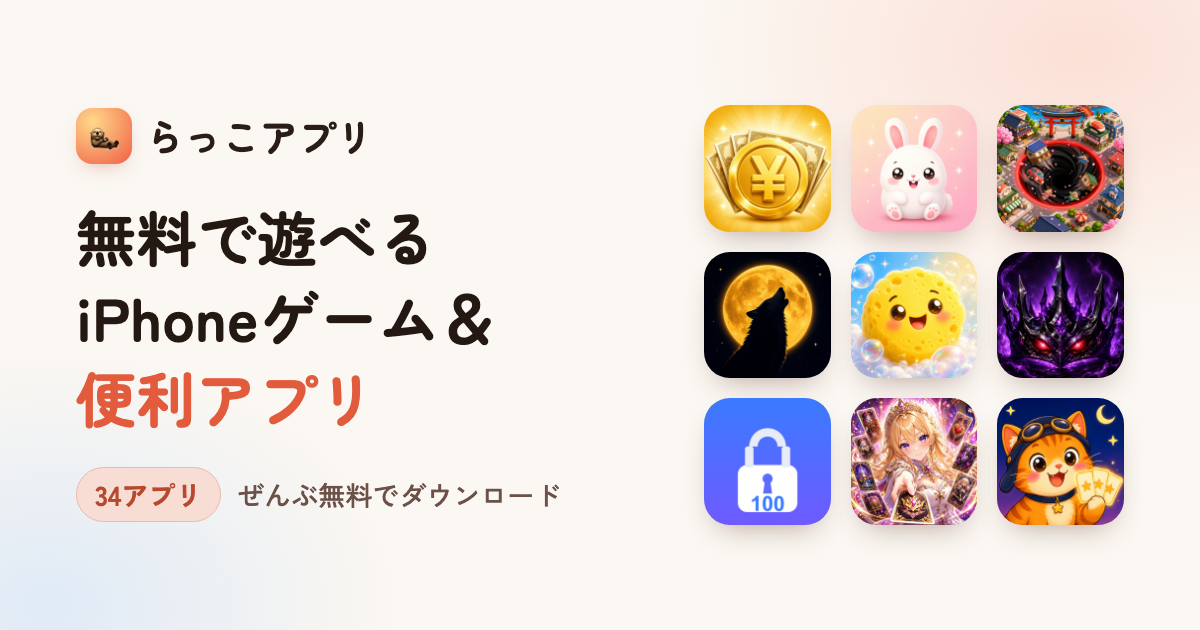
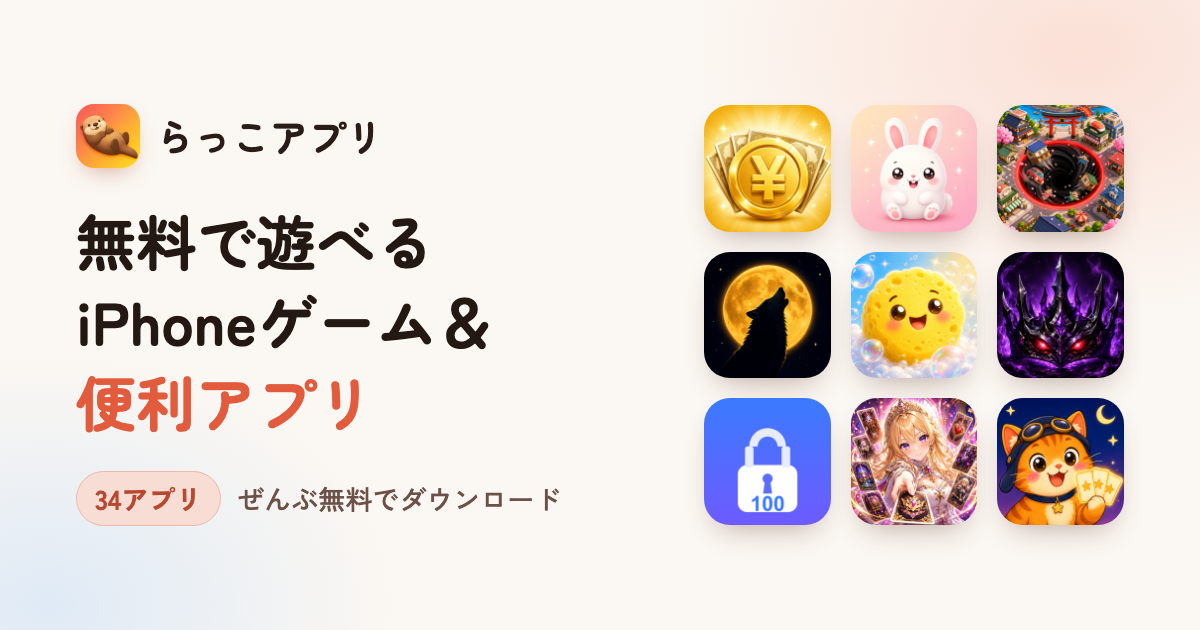
ブランドアイコンをChatGPT生成画像に差し替え（絵文字を全廃）
ロゴ/ファビコン/ヒーローバッジ/空状態/箇条書きに使っていた絵文字を
ChatGPT生成のラッコアイコン画像に置き換え。絵柄は絵文字と同じ
「仰向けでぷかぷか浮かぶ」ポーズを踏襲。

- assets/brand/icon-{1024,512,192,180,160,96,48,32}.png を追加
- favicon.svg(絵文字)を削除し favicon.png へ
- apple-touch-icon / manifest / OGPカバーも新アイコンで再生成
- 生成画像の黒い角は内側のグラデーションで補間しフチなし正方形化

Changed region(s): [[0.0617, 0.3317, 0.4008, 0.6937], [0.0617, 0.7238, 0.4625, 0.8444], [0.0617, 0.1508, 0.3083, 0.2714]]

diff --git a/index.html b/index.html
@@ -36,15 +36,16 @@
 <meta name="twitter:description" content="個人開発の無料iPhoneアプリまとめ。App Storeで配信中のアプリをカテゴリと検索で探せます。">
 <meta name="twitter:image" content="https://rakkoapps.com/assets/og/cover.png">
 
-<link rel="icon" href="/favicon.svg" type="image/svg+xml">
+<link rel="icon" href="/favicon.png" type="image/png">
+<link rel="icon" sizes="192x192" href="/assets/brand/icon-192.png" type="image/png">
 <link rel="apple-touch-icon" href="/assets/og/apple-touch-icon.png">
 <link rel="manifest" href="/site.webmanifest">
 
 <link rel="preconnect" href="https://fonts.googleapis.com">
 <link rel="preconnect" href="https://fonts.gstatic.com" crossorigin>
 <link href="https://fonts.googleapis.com/css2?family=Zen+Kaku+Gothic+New:wght@400;500;700&family=Zen+Maru+Gothic:wght@500;700&display=swap" rel="stylesheet">
-<link rel="stylesheet" href="/css/tokens.css?v=mry5mwqi">
-<link rel="stylesheet" href="/css/styles.css?v=mry5mwqi">
+<link rel="stylesheet" href="/css/tokens.css?v=mry668hd">
+<link rel="stylesheet" href="/css/styles.css?v=mry668hd">
 
 <!-- JSON-LD: 構造化データ（検索エンジン向け。実データ差込） -->
 <script type="application/ld+json">
@@ -734,7 +735,7 @@
 <header class="nav">
   <div class="wrap nav__inner">
     <a class="wordmark" href="#top" aria-label="らっこアプリ ホーム">
-      <span class="wordmark__mark" aria-hidden="true"><span>🦦</span></span>
+      <img class="wordmark__mark" src="/assets/brand/icon-96.png" width="96" height="96" alt="" aria-hidden="true">
       らっこアプリ
     </a>
     <nav class="nav__links" aria-label="メイン">
@@ -751,7 +752,7 @@
   <!-- ============ Hero ============ -->
   <section class="hero">
     <div class="wrap">
-      <p class="hero__badge">🦦 個人開発のiPhoneアプリを <b>&nbsp;34本&nbsp;</b> 公開中</p>
+      <p class="hero__badge"><img class="badge__icon" src="/assets/brand/icon-48.png" width="48" height="48" alt="" aria-hidden="true">個人開発のiPhoneアプリを <b>&nbsp;34本&nbsp;</b> 公開中</p>
       <h1 class="hero__title"><span class="ln ln--sp">無料で遊べる</span><span class="ln">iPhoneゲーム＆</span><span class="ln"><span class="accent">便利アプリ</span>。</span></h1>
       <p class="hero__lede">らっこアプリは、個人でつくったiPhone向けのゲームとツールをまとめた一覧サイト。気になったらそのままApp Storeへ。ぜんぶ無料でダウンロードできます。</p>
       <div class="hero__actions">
@@ -1293,7 +1294,7 @@
       </div>
 
       <div class="empty" id="empty">
-        <div class="empty__emoji" aria-hidden="true">🦦</div>
+        <img class="empty__icon" src="/assets/brand/icon-160.png" width="160" height="160" alt="" aria-hidden="true">
         <p>該当するアプリが見つかりませんでした。<br>キーワードやカテゴリを変えてみてください。</p>
       </div>
     </div>
@@ -1338,6 +1339,6 @@
   </div>
 </footer>
 
-<script src="/js/app.js?v=mry5mwqi" defer></script>
+<script src="/js/app.js?v=mry668hd" defer></script>
 </body>
 </html>

diff --git a/css/styles.css b/css/styles.css
@@ -99,10 +99,8 @@ strong { font-weight: 700; color: var(--color-ink); }
 .wordmark { display: inline-flex; align-items: center; gap: 0.5em; font-family: var(--font-display); font-weight: 700; font-size: var(--text-md); color: var(--color-ink); letter-spacing: 0.01em; }
 .wordmark__mark {
   width: 2rem; height: 2rem; border-radius: 10px; flex: none;
-  background: radial-gradient(120% 120% at 30% 25%, var(--color-pear), var(--color-accent) 78%);
-  display: grid; place-items: center; box-shadow: var(--shadow-card);
+  object-fit: cover; box-shadow: var(--shadow-card);
 }
-.wordmark__mark span { font-size: 1.1rem; line-height: 1; filter: saturate(1.1); }
 .nav__links { display: flex; align-items: center; gap: clamp(0.5rem, 1.5vw, 1.5rem); margin-left: auto; }
 .nav__link { font-size: var(--text-sm); font-weight: 500; color: var(--color-muted); padding: 0.4rem 0.2rem; transition: color var(--dur) var(--ease-out); white-space: nowrap; }
 .nav__link:hover { color: var(--color-ink); }
@@ -127,6 +125,7 @@ strong { font-weight: 700; color: var(--color-ink); }
   padding: 0.35em 0.85em; border-radius: var(--radius-pill); margin-bottom: var(--space-md);
 }
 .hero__badge b { font-weight: 700; }
+.badge__icon { width: 1.25rem; height: 1.25rem; border-radius: 5px; flex: none; object-fit: cover; }
 .hero h1 { font-size: var(--text-display); max-width: 14em; letter-spacing: 0.005em; line-height: 1.32; }
 .hero h1 .accent { color: var(--color-accent); }
 /* 見出しは「意味のまとまり」単位で折り返す。語中では折らない（keep-all）が、
@@ -204,7 +203,7 @@ strong { font-weight: 700; color: var(--color-ink); }
 /* Empty state for search */
 .empty { display: none; padding: var(--space-2xl) var(--space-md); text-align: center; color: var(--color-muted); }
 .empty.is-shown { display: block; }
-.empty__emoji { font-size: 2.5rem; }
+.empty__icon { width: 76px; height: 76px; border-radius: 20px; object-fit: cover; margin: 0 auto var(--space-sm); box-shadow: var(--shadow-card); }
 
 .result-count { font-size: var(--text-sm); color: var(--color-muted); margin-bottom: var(--space-md); }
 .result-count b { color: var(--color-ink); font-variant-numeric: tabular-nums; }
@@ -219,7 +218,10 @@ strong { font-weight: 700; color: var(--color-ink); }
 .about__text { margin-top: var(--space-sm); color: var(--color-body); max-width: 48ch; }
 .about__list { margin-top: var(--space-md); display: grid; gap: 0.5rem; }
 .about__list li { display: flex; gap: 0.6em; align-items: flex-start; font-size: var(--text-sm); color: var(--color-body); }
-.about__list li::before { content: "🦦"; flex: none; }
+.about__list li::before {
+  content: ""; flex: none; width: 1.15rem; height: 1.15rem; margin-top: 0.15em;
+  border-radius: 5px; background: url("/assets/brand/icon-48.png") center/cover no-repeat;
+}
 .about__aside { background: var(--color-paper-2); border-radius: var(--radius-lg); padding: var(--space-lg); }
 .about__aside h3 { font-size: var(--text-md); margin-bottom: var(--space-xs); }
 .about__aside a { color: var(--color-accent-ink); font-weight: 700; }

diff --git a/index.template.html b/index.template.html
@@ -36,7 +36,8 @@
 <meta name="twitter:description" content="個人開発の無料iPhoneアプリまとめ。App Storeで配信中のアプリをカテゴリと検索で探せます。">
 <meta name="twitter:image" content="https://rakkoapps.com/assets/og/cover.png">
 
-<link rel="icon" href="/favicon.svg" type="image/svg+xml">
+<link rel="icon" href="/favicon.png" type="image/png">
+<link rel="icon" sizes="192x192" href="/assets/brand/icon-192.png" type="image/png">
 <link rel="apple-touch-icon" href="/assets/og/apple-touch-icon.png">
 <link rel="manifest" href="/site.webmanifest">
 
@@ -55,7 +56,7 @@
 <header class="nav">
   <div class="wrap nav__inner">
     <a class="wordmark" href="#top" aria-label="らっこアプリ ホーム">
-      <span class="wordmark__mark" aria-hidden="true"><span>🦦</span></span>
+      <img class="wordmark__mark" src="/assets/brand/icon-96.png" width="96" height="96" alt="" aria-hidden="true">
       らっこアプリ
     </a>
     <nav class="nav__links" aria-label="メイン">
@@ -72,7 +73,7 @@
   <!-- ============ Hero ============ -->
   <section class="hero">
     <div class="wrap">
-      <p class="hero__badge">🦦 個人開発のiPhoneアプリを <b>&nbsp;{{APP_COUNT}}本&nbsp;</b> 公開中</p>
+      <p class="hero__badge"><img class="badge__icon" src="/assets/brand/icon-48.png" width="48" height="48" alt="" aria-hidden="true">個人開発のiPhoneアプリを <b>&nbsp;{{APP_COUNT}}本&nbsp;</b> 公開中</p>
       <h1 class="hero__title"><span class="ln ln--sp">無料で遊べる</span><span class="ln">iPhoneゲーム＆</span><span class="ln"><span class="accent">便利アプリ</span>。</span></h1>
       <p class="hero__lede">らっこアプリは、個人でつくったiPhone向けのゲームとツールをまとめた一覧サイト。気になったらそのままApp Storeへ。ぜんぶ無料でダウンロードできます。</p>
       <div class="hero__actions">
@@ -129,7 +130,7 @@
       </div>
 
       <div class="empty" id="empty">
-        <div class="empty__emoji" aria-hidden="true">🦦</div>
+        <img class="empty__icon" src="/assets/brand/icon-160.png" width="160" height="160" alt="" aria-hidden="true">
         <p>該当するアプリが見つかりませんでした。<br>キーワードやカテゴリを変えてみてください。</p>
       </div>
     </div>

diff --git a/apps/koyaku-counter/index.html b/apps/koyaku-counter/index.html
@@ -19,13 +19,13 @@
 <meta name="twitter:title" content="ShareHistory 収支共有&amp;子役カウント｜らっこアプリ">
 <meta name="twitter:description" content="パチスロ収支を仲間と共有＆子役カウント。">
 <meta name="twitter:image" content="https://rakkoapps.com/assets/icons/koyaku-counter.png">
-<link rel="icon" href="/favicon.svg" type="image/svg+xml">
+<link rel="icon" href="/favicon.png" type="image/png">
 <link rel="apple-touch-icon" href="/assets/og/apple-touch-icon.png">
 <link rel="preconnect" href="https://fonts.googleapis.com">
 <link rel="preconnect" href="https://fonts.gstatic.com" crossorigin>
 <link href="https://fonts.googleapis.com/css2?family=Zen+Kaku+Gothic+New:wght@400;500;700&family=Zen+Maru+Gothic:wght@500;700&display=swap" rel="stylesheet">
-<link rel="stylesheet" href="/css/tokens.css?v=mry5mwqi">
-<link rel="stylesheet" href="/css/styles.css?v=mry5mwqi">
+<link rel="stylesheet" href="/css/tokens.css?v=mry668hd">
+<link rel="stylesheet" href="/css/styles.css?v=mry668hd">
 <script type="application/ld+json">
 {
   "@context": "https://schema.org",
@@ -83,7 +83,7 @@
 <header class="nav">
   <div class="wrap nav__inner">
     <a class="wordmark" href="/" aria-label="らっこアプリ ホーム">
-      <span class="wordmark__mark" aria-hidden="true"><span>🦦</span></span>
+      <img class="wordmark__mark" src="/assets/brand/icon-96.png" width="96" height="96" alt="" aria-hidden="true">
       らっこアプリ
     </a>
     <nav class="nav__links" aria-label="メイン">

diff --git a/apps/poker-shot-clock/index.html b/apps/poker-shot-clock/index.html
@@ -19,13 +19,13 @@
 <meta name="twitter:title" content="ポーカーショットクロック｜らっこアプリ">
 <meta name="twitter:description" content="ライブポーカーの持ち時間を管理するタイマー。">
 <meta name="twitter:image" content="https://rakkoapps.com/assets/icons/poker-shot-clock.png">
-<link rel="icon" href="/favicon.svg" type="image/svg+xml">
+<link rel="icon" href="/favicon.png" type="image/png">
 <link rel="apple-touch-icon" href="/assets/og/apple-touch-icon.png">
 <link rel="preconnect" href="https://fonts.googleapis.com">
 <link rel="preconnect" href="https://fonts.gstatic.com" crossorigin>
 <link href="https://fonts.googleapis.com/css2?family=Zen+Kaku+Gothic+New:wght@400;500;700&family=Zen+Maru+Gothic:wght@500;700&display=swap" rel="stylesheet">
-<link rel="stylesheet" href="/css/tokens.css?v=mry5mwqi">
-<link rel="stylesheet" href="/css/styles.css?v=mry5mwqi">
+<link rel="stylesheet" href="/css/tokens.css?v=mry668hd">
+<link rel="stylesheet" href="/css/styles.css?v=mry668hd">
 <script type="application/ld+json">
 {
   "@context": "https://schema.org",
@@ -83,7 +83,7 @@
 <header class="nav">
   <div class="wrap nav__inner">
     <a class="wordmark" href="/" aria-label="らっこアプリ ホーム">
-      <span class="wordmark__mark" aria-hidden="true"><span>🦦</span></span>
+      <img class="wordmark__mark" src="/assets/brand/icon-96.png" width="96" height="96" alt="" aria-hidden="true">
       らっこアプリ
     </a>
     <nav class="nav__links" aria-label="メイン">

diff --git a/apps/deck-hime/index.html b/apps/deck-hime/index.html
@@ -19,13 +19,13 @@
 <meta name="twitter:title" content="デッキ姫 〜王国カード戦記〜｜らっこアプリ">
 <meta name="twitter:description" content="10枚から最強デッキを育てるデッキ構築カード。">
 <meta name="twitter:image" content="https://rakkoapps.com/assets/icons/deck-hime.png">
-<link rel="icon" href="/favicon.svg" type="image/svg+xml">
+<link rel="icon" href="/favicon.png" type="image/png">
 <link rel="apple-touch-icon" href="/assets/og/apple-touch-icon.png">
 <link rel="preconnect" href="https://fonts.googleapis.com">
 <link rel="preconnect" href="https://fonts.gstatic.com" crossorigin>
 <link href="https://fonts.googleapis.com/css2?family=Zen+Kaku+Gothic+New:wght@400;500;700&family=Zen+Maru+Gothic:wght@500;700&display=swap" rel="stylesheet">
-<link rel="stylesheet" href="/css/tokens.css?v=mry5mwqi">
-<link rel="stylesheet" href="/css/styles.css?v=mry5mwqi">
+<link rel="stylesheet" href="/css/tokens.css?v=mry668hd">
+<link rel="stylesheet" href="/css/styles.css?v=mry668hd">
 <script type="application/ld+json">
 {
   "@context": "https://schema.org",
@@ -83,7 +83,7 @@
 <header class="nav">
   <div class="wrap nav__inner">
     <a class="wordmark" href="/" aria-label="らっこアプリ ホーム">
-      <span class="wordmark__mark" aria-hidden="true"><span>🦦</span></span>
+      <img class="wordmark__mark" src="/assets/brand/icon-96.png" width="96" height="96" alt="" aria-hidden="true">
       らっこアプリ
     </a>
     <nav class="nav__links" aria-label="メイン">

diff --git a/apps/wordwolf/index.html b/apps/wordwolf/index.html
@@ -19,13 +19,13 @@
 <meta name="twitter:title" content="ワードウルフ - 嘘つきは誰だ？｜らっこアプリ">
 <meta name="twitter:description" content="スマホ1台で盛り上がる正体隠しトークゲーム。">
 <meta name="twitter:image" content="https://rakkoapps.com/assets/icons/wordwolf.png">
-<link rel="icon" href="/favicon.svg" type="image/svg+xml">
+<link rel="icon" href="/favicon.png" type="image/png">
 <link rel="apple-touch-icon" href="/assets/og/apple-touch-icon.png">
 <link rel="preconnect" href="https://fonts.googleapis.com">
 <link rel="preconnect" href="https://fonts.gstatic.com" crossorigin>
 <link href="https://fonts.googleapis.com/css2?family=Zen+Kaku+Gothic+New:wght@400;500;700&family=Zen+Maru+Gothic:wght@500;700&display=swap" rel="stylesheet">
-<link rel="stylesheet" href="/css/tokens.css?v=mry5mwqi">
-<link rel="stylesheet" href="/css/styles.css?v=mry5mwqi">
+<link rel="stylesheet" href="/css/tokens.css?v=mry668hd">
+<link rel="stylesheet" href="/css/styles.css?v=mry668hd">
 <script type="application/ld+json">
 {
   "@context": "https://schema.org",
@@ -83,7 +83,7 @@
 <header class="nav">
   <div class="wrap nav__inner">
     <a class="wordmark" href="/" aria-label="らっこアプリ ホーム">
-      <span class="wordmark__mark" aria-hidden="true"><span>🦦</span></span>
+      <img class="wordmark__mark" src="/assets/brand/icon-96.png" width="96" height="96" alt="" aria-hidden="true">
       らっこアプリ
     </a>
     <nav class="nav__links" aria-label="メイン">

diff --git a/apps/super-tap-battle/index.html b/apps/super-tap-battle/index.html
@@ -19,13 +19,13 @@
 <meta name="twitter:title" content="スーパータップ対戦｜らっこアプリ">
 <meta name="twitter:description" content="現れるボールを割るだけ。超シンプル早押し対戦。">
 <meta name="twitter:image" content="https://rakkoapps.com/assets/icons/super-tap-battle.png">
-<link rel="icon" href="/favicon.svg" type="image/svg+xml">
+<link rel="icon" href="/favicon.png" type="image/png">
 <link rel="apple-touch-icon" href="/assets/og/apple-touch-icon.png">
 <link rel="preconnect" href="https://fonts.googleapis.com">
 <link rel="preconnect" href="https://fonts.gstatic.com" crossorigin>
 <link href="https://fonts.googleapis.com/css2?family=Zen+Kaku+Gothic+New:wght@400;500;700&family=Zen+Maru+Gothic:wght@500;700&display=swap" rel="stylesheet">
-<link rel="stylesheet" href="/css/tokens.css?v=mry5mwqi">
-<link rel="stylesheet" href="/css/styles.css?v=mry5mwqi">
+<link rel="stylesheet" href="/css/tokens.css?v=mry668hd">
+<link rel="stylesheet" href="/css/styles.css?v=mry668hd">
 <script type="application/ld+json">
 {
   "@context": "https://schema.org",
@@ -83,7 +83,7 @@
 <header class="nav">
   <div class="wrap nav__inner">
     <a class="wordmark" href="/" aria-label="らっこアプリ ホーム">
-      <span class="wordmark__mark" aria-hidden="true"><span>🦦</span></span>
+      <img class="wordmark__mark" src="/assets/brand/icon-96.png" width="96" height="96" alt="" aria-hidden="true">
       らっこアプリ
     </a>
     <nav class="nav__links" aria-label="メイン">

diff --git a/apps/auto-factory/index.html b/apps/auto-factory/index.html
@@ -19,13 +19,13 @@
 <meta name="twitter:title" content="オートファクトリー｜らっこアプリ">
 <meta name="twitter:description" content="採掘から自動化する本格工場づくり（Factorio系）。">
 <meta name="twitter:image" content="https://rakkoapps.com/assets/icons/auto-factory.png">
-<link rel="icon" href="/favicon.svg" type="image/svg+xml">
+<link rel="icon" href="/favicon.png" type="image/png">
 <link rel="apple-touch-icon" href="/assets/og/apple-touch-icon.png">
 <link rel="preconnect" href="https://fonts.googleapis.com">
 <link rel="preconnect" href="https://fonts.gstatic.com" crossorigin>
 <link href="https://fonts.googleapis.com/css2?family=Zen+Kaku+Gothic+New:wght@400;500;700&family=Zen+Maru+Gothic:wght@500;700&display=swap" rel="stylesheet">
-<link rel="stylesheet" href="/css/tokens.css?v=mry5mwqi">
-<link rel="stylesheet" href="/css/styles.css?v=mry5mwqi">
+<link rel="stylesheet" href="/css/tokens.css?v=mry668hd">
+<link rel="stylesheet" href="/css/styles.css?v=mry668hd">
 <script type="application/ld+json">
 {
   "@context": "https://schema.org",
@@ -83,7 +83,7 @@
 <header class="nav">
   <div class="wrap nav__inner">
     <a class="wordmark" href="/" aria-label="らっこアプリ ホーム">
-      <span class="wordmark__mark" aria-hidden="true"><span>🦦</span></span>
+      <img class="wordmark__mark" src="/assets/brand/icon-96.png" width="96" height="96" alt="" aria-hidden="true">
       らっこアプリ
     </a>
     <nav class="nav__links" aria-label="メイン">

diff --git a/apps/dekoboko-rider/index.html b/apps/dekoboko-rider/index.html
@@ -19,13 +19,13 @@
 <meta name="twitter:title" content="デコボコライダー｜らっこアプリ">
 <meta name="twitter:description" content="バイクで丘を駆け抜けるかんたん物理アクション。">
 <meta name="twitter:image" content="https://rakkoapps.com/assets/icons/dekoboko-rider.png">
-<link rel="icon" href="/favicon.svg" type="image/svg+xml">
+<link rel="icon" href="/favicon.png" type="image/png">
 <link rel="apple-touch-icon" href="/assets/og/apple-touch-icon.png">
 <link rel="preconnect" href="https://fonts.googleapis.com">
 <link rel="preconnect" href="https://fonts.gstatic.com" crossorigin>
 <link href="https://fonts.googleapis.com/css2?family=Zen+Kaku+Gothic+New:wght@400;500;700&family=Zen+Maru+Gothic:wght@500;700&display=swap" rel="stylesheet">
-<link rel="stylesheet" href="/css/tokens.css?v=mry5mwqi">
-<link rel="stylesheet" href="/css/styles.css?v=mry5mwqi">
+<link rel="stylesheet" href="/css/tokens.css?v=mry668hd">
+<link rel="stylesheet" href="/css/styles.css?v=mry668hd">
 <script type="application/ld+json">
 {
   "@context": "https://schema.org",
@@ -83,7 +83,7 @@
 <header class="nav">
   <div class="wrap nav__inner">
     <a class="wordmark" href="/" aria-label="らっこアプリ ホーム">
-      <span class="wordmark__mark" aria-hidden="true"><span>🦦</span></span>
+      <img class="wordmark__mark" src="/assets/brand/icon-96.png" width="96" height="96" alt="" aria-hidden="true">
       らっこアプリ
     </a>
     <nav class="nav__links" aria-label="メイン">

diff --git a/apps/oekaki-online/index.html b/apps/oekaki-online/index.html
@@ -19,13 +19,13 @@
 <meta name="twitter:title" content="らくがきオンライン｜らっこアプリ">
 <meta name="twitter:description" content="みんなで遊ぶリアルタイムお絵かき当てゲーム。">
 <meta name="twitter:image" content="https://rakkoapps.com/assets/icons/oekaki-online.png">
-<link rel="icon" href="/favicon.svg" type="image/svg+xml">
+<link rel="icon" href="/favicon.png" type="image/png">
 <link rel="apple-touch-icon" href="/assets/og/apple-touch-icon.png">
 <link rel="preconnect" href="https://fonts.googleapis.com">
 <link rel="preconnect" href="https://fonts.gstatic.com" crossorigin>
 <link href="https://fonts.googleapis.com/css2?family=Zen+Kaku+Gothic+New:wght@400;500;700&family=Zen+Maru+Gothic:wght@500;700&display=swap" rel="stylesheet">
-<link rel="stylesheet" href="/css/tokens.css?v=mry5mwqi">
-<link rel="stylesheet" href="/css/styles.css?v=mry5mwqi">
+<link rel="stylesheet" href="/css/tokens.css?v=mry668hd">
+<link rel="stylesheet" href="/css/styles.css?v=mry668hd">
 <script type="application/ld+json">
 {
   "@context": "https://schema.org",
@@ -83,7 +83,7 @@
 <header class="nav">
   <div class="wrap nav__inner">
     <a class="wordmark" href="/" aria-label="らっこアプリ ホーム">
-      <span class="wordmark__mark" aria-hidden="true"><span>🦦</span></span>
+      <img class="wordmark__mark" src="/assets/brand/icon-96.png" width="96" height="96" alt="" aria-hidden="true">
       らっこアプリ
     </a>
     <nav class="nav__links" aria-label="メイン">

diff --git a/apps/ojisan-farm/index.html b/apps/ojisan-farm/index.html
@@ -19,13 +19,13 @@
 <meta name="twitter:title" content="おじさん畑｜らっこアプリ">
 <meta name="twitter:description" content="おじさんを育てて収穫する、のんびり栽培コレクション。">
 <meta name="twitter:image" content="https://rakkoapps.com/assets/icons/ojisan-farm.png">
-<link rel="icon" href="/favicon.svg" type="image/svg+xml">
+<link rel="icon" href="/favicon.png" type="image/png">
 <link rel="apple-touch-icon" href="/assets/og/apple-touch-icon.png">
 <link rel="preconnect" href="https://fonts.googleapis.com">
 <link rel="preconnect" href="https://fonts.gstatic.com" crossorigin>
 <link href="https://fonts.googleapis.com/css2?family=Zen+Kaku+Gothic+New:wght@400;500;700&family=Zen+Maru+Gothic:wght@500;700&display=swap" rel="stylesheet">
-<link rel="stylesheet" href="/css/tokens.css?v=mry5mwqi">
-<link rel="stylesheet" href="/css/styles.css?v=mry5mwqi">
+<link rel="stylesheet" href="/css/tokens.css?v=mry668hd">
+<link rel="stylesheet" href="/css/styles.css?v=mry668hd">
 <script type="application/ld+json">
 {
   "@context": "https://schema.org",
@@ -83,7 +83,7 @@
 <header class="nav">
   <div class="wrap nav__inner">
     <a class="wordmark" href="/" aria-label="らっこアプリ ホーム">
-      <span class="wordmark__mark" aria-hidden="true"><span>🦦</span></span>
+      <img class="wordmark__mark" src="/assets/brand/icon-96.png" width="96" height="96" alt="" aria-hidden="true">
       らっこアプリ
     </a>
     <nav class="nav__links" aria-label="メイン">
